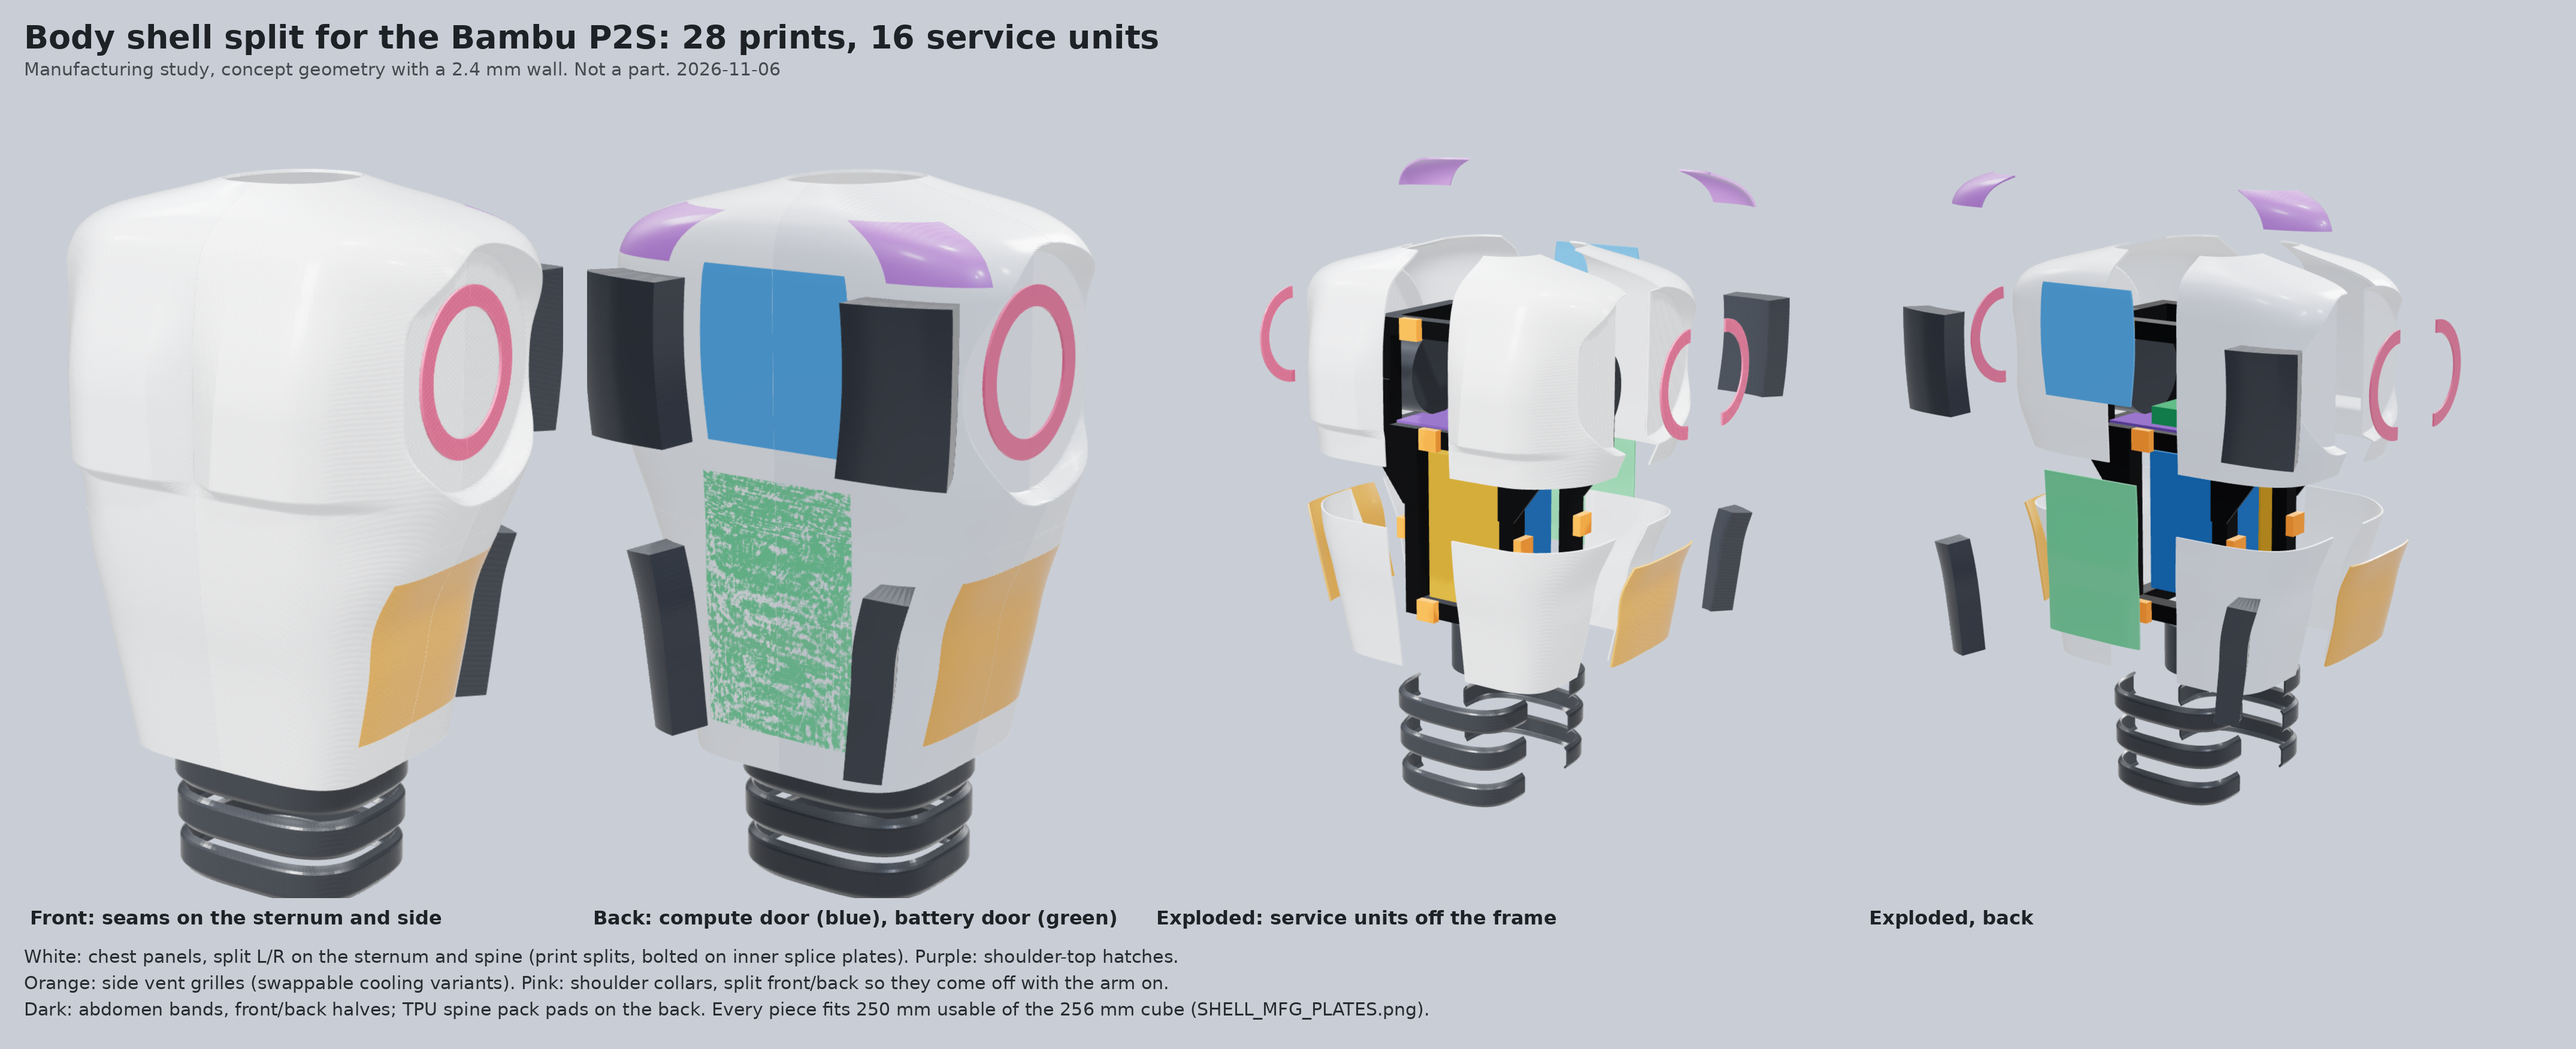
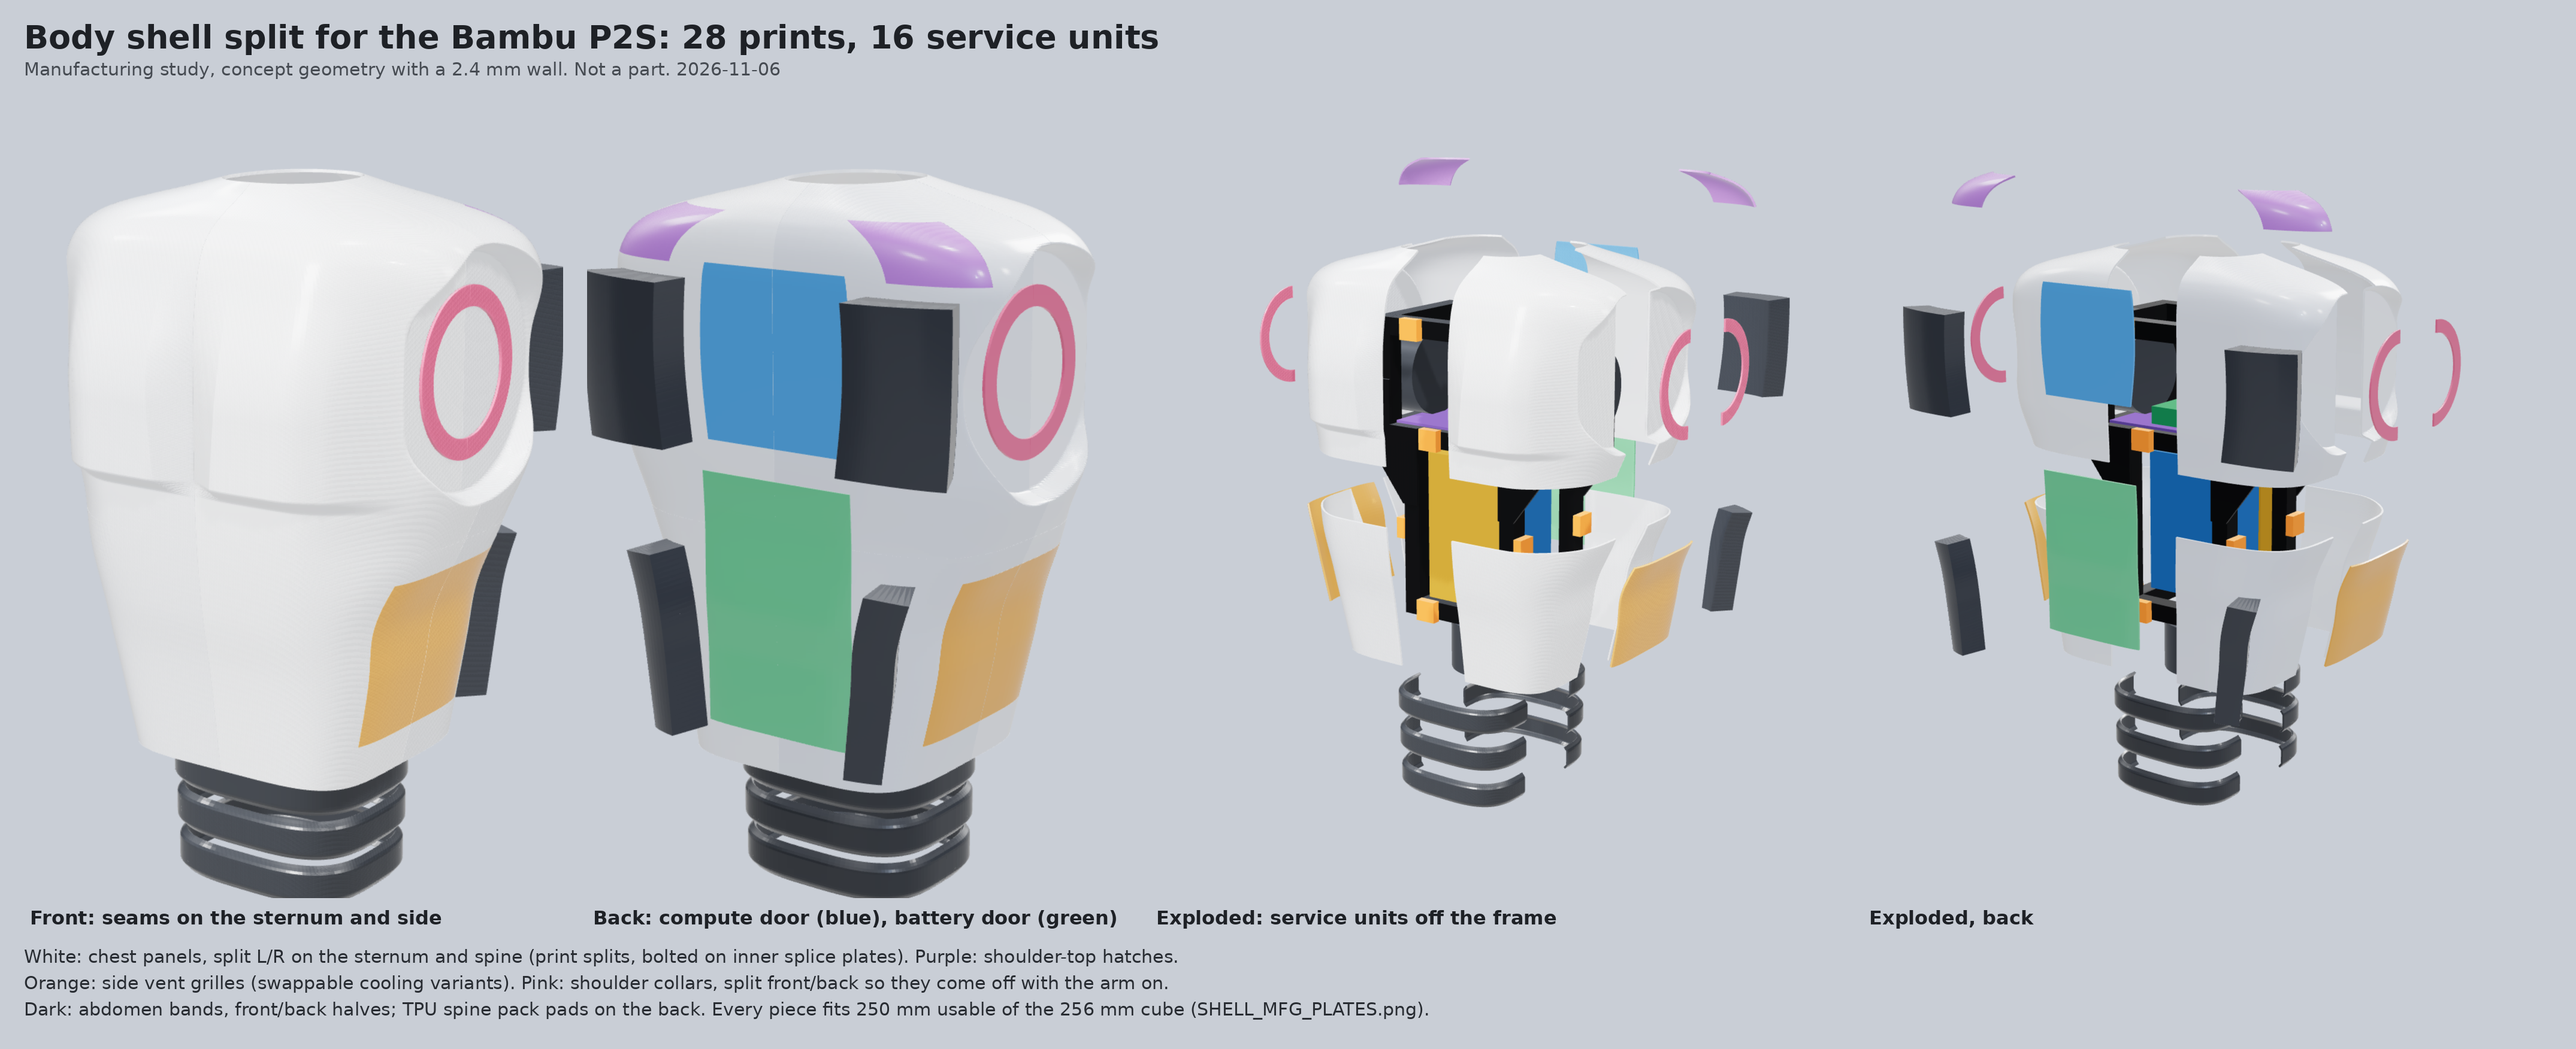
Body shell: battery door render fix
Claude-Session: https://claude.ai/code/session_01754CrBjkeCbkEqxfqjnKtV

Changed region(s): [[0.2493, 0.4623, 0.3428, 0.7089]]

diff --git a/hardware/designs/body-shell/concept/generator/split_check.py b/hardware/designs/body-shell/concept/generator/split_check.py
@@ -135,7 +135,7 @@ def back_patch(za, zb, ymax, nz=80, ny=60):
             x1 = np.interp(y, r1[:, 1][::-1] if r1[0, 1] > r1[-1, 1] else r1[:, 1], (r1[:, 0][::-1] if r1[0, 1] > r1[-1, 1] else r1[:, 0]))
             out[a, b] = [x0 + (x1 - x0) * t, y, z]
     return out
-D2 = back_patch(F0 + 20, F0 + 197, 60)
+D2 = back_patch(F0 + 20, F0 + 197, 60); D2[..., 0] -= 0.6   # sit just proud of the (uncut) parent panels in renders
 piece("door_battery", "D2 battery door", "door", thicken(D2), "13S2P pack slides out the back; PDB/ports moved to the front power board")
 # side vent grilles: straddle the front/back seam at the sides of the lower chest (cooling variants)
 for s, nm in ((1, "L"), (-1, "R")):
